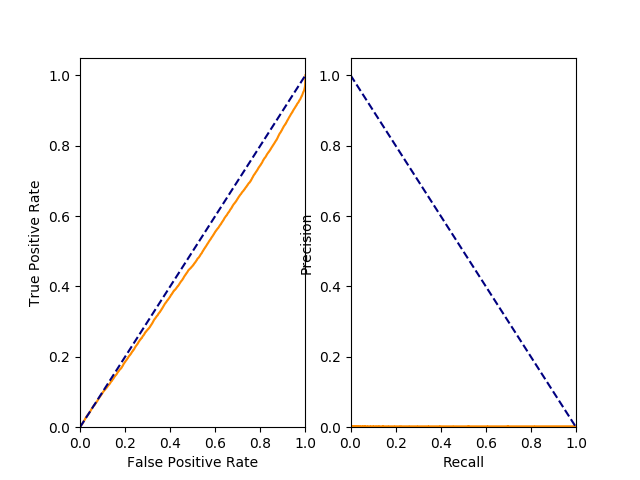
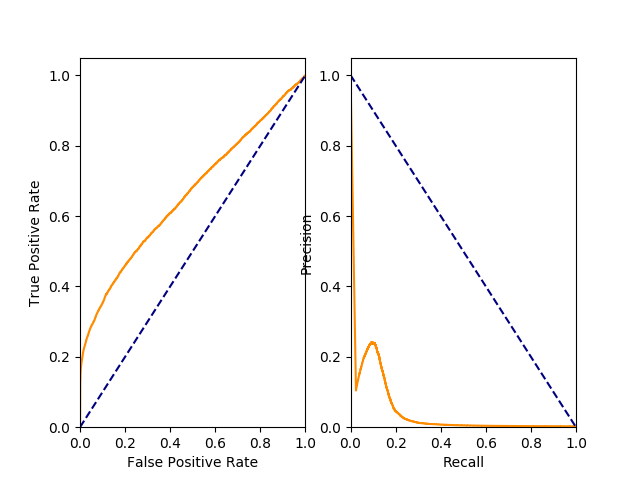
update fastggm auroc/aupr

diff --git a/eval/roc_fastggm.py b/eval/roc_fastggm.py
@@ -1,62 +1,80 @@
-import numpy, pandas, os, errno, matplotlib
+import numpy, pandas, os, errno, matplotlib, argparse
 matplotlib.use('agg')
 import matplotlib.pyplot as plt
 from sklearn.metrics import roc_curve, roc_auc_score, average_precision_score, precision_recall_curve
 
-try:
-    os.mkdir("fastggm")
-except OSError as e:
-    if e.errno == errno.EEXIST:
-        pass
+PRINT_ORDER_SXG =["2000X250", "2000X500", "2000X750", "2000X1000", "2000X1250", "2000X1500", "2000X1750", "2000X2000", "1750X2000", "1500X2000", "1250X2000", "1000X2000", "750X2000", "500X2000", "250X2000"]
 
-true_complete = pandas.read_csv('../data/yeast/gnw2000_truenet', sep=' ', index_col=0)
+def main(input_base_dir = "..", output_base_dir = "."):
+    input_base_dir = input_base_dir + "/"
+    output_base_dir = output_base_dir + "/"
+    try:
+        os.mkdir(output_base_dir + "fastggm")
+    except OSError as e:
+        if e.errno == errno.EEXIST:
+            pass
 
-files = os.listdir('../runs/fastggm/output')
-auroc = []
-average_precision = []
-for _filename in files:
-    filename = '../runs/fastggm/output/' + _filename
-    ngenes = int(_filename.split('.', 1)[0])
-    nsamples = int(_filename.split('.', 1)[1].split('-',1)[0])
-    datafile = '../runs/fastggm/data/format.gnwn' + str(nsamples) + 'X' + str(ngenes)
-    genes = []
-    with open(datafile) as f:
-        line = f.readline().replace('"', '')
-        genes = line.split()
-    
-    pred = pandas.read_csv(filename, sep=' ', index_col=0, usecols=range(2*ngenes, 3*ngenes))
-    true = true_complete.loc[genes, genes]
-    pred = pred.values.flatten()
-    true = true.values.flatten()
-    
-    fpr, tpr, thresholds = roc_curve(true, pred)
-    precision, recall, _ = precision_recall_curve(true, pred)
-    auroc.append(roc_auc_score(true, pred))
-    average_precision.append(average_precision_score(true, pred))
-    
-    fig = plt.figure()
+    true_complete = pandas.read_csv(input_base_dir + 'data/yeast/gnw2000_truenet', sep=' ', index_col=0)
 
-    plt.subplot(1, 2, 1)
-    plt.plot(fpr, tpr, color='darkorange')
-    plt.plot([0,1], [0,1], color='navy', linestyle='--')
-    plt.xlim([0.0, 1.0])
-    plt.ylim([0.0, 1.05])
-    plt.xlabel('False Positive Rate')
-    plt.ylabel('True Positive Rate')
+    files = os.listdir(input_base_dir + 'runs/fastggm/output')
+    auroc = {}
+    average_precision = {}
+    for _filename in files:
+        filename = input_base_dir + 'runs/fastggm/output/' + _filename
+        ngenes = int(_filename.split('.', 1)[0])
+        nsamples = int(_filename.split('.', 1)[1].split('-',1)[0])
+        datafile = input_base_dir + 'runs/fastggm/data/format.gnwn' + str(nsamples) + 'X' + str(ngenes)
+        genes = []
+        with open(datafile) as f:
+            line = f.readline().replace('"', '')
+            genes = line.split()
 
-    plt.subplot(1, 2, 2)
-    plt.plot(recall, precision, color='darkorange')
-    plt.plot([0, 1], [1, 0], color='navy', linestyle='--')
-    plt.xlim([0.0, 1.0])
-    plt.ylim([0.0, 1.05])
-    plt.xlabel('Recall')
-    plt.ylabel('Precision')
+        pred = pandas.read_csv(filename, sep=' ', index_col=0, usecols=range(2*ngenes + 1, 3*ngenes + 1))
+        true = true_complete.loc[genes, genes]
+        pred = pred.values.flatten()
+        true = true.values.flatten()
+        print(max(pred), min(pred))
+        sxgn = str(nsamples) + "X" + str(ngenes)
+        pred = 1 - pred
 
-    fig.savefig('fastggm/'+_filename.split('-')[0]+'_roc.png')
+        fpr, tpr, thresholds = roc_curve(true, pred)
+        precision, recall, _ = precision_recall_curve(true, pred)
+        auroc[sxgn] = roc_auc_score(true, pred)
+        average_precision[sxgn] = average_precision_score(true, pred)
 
-print("AUROC")
-for i in range(len(auroc)):
-    print(files[i] + " : " + str(auroc[i]))
-print("Average_precision")
-for i in range(len(average_precision)):
-    print(files[i] + " : " + str(average_precision[i]))
+        fig = plt.figure()
+
+        plt.subplot(1, 2, 1)
+        plt.plot(fpr, tpr, color='darkorange')
+        plt.plot([0,1], [0,1], color='navy', linestyle='--')
+        plt.xlim([0.0, 1.0])
+        plt.ylim([0.0, 1.05])
+        plt.xlabel('False Positive Rate')
+        plt.ylabel('True Positive Rate')
+
+        plt.subplot(1, 2, 2)
+        plt.plot(recall, precision, color='darkorange')
+        plt.plot([0, 1], [1, 0], color='navy', linestyle='--')
+        plt.xlim([0.0, 1.0])
+        plt.ylim([0.0, 1.05])
+        plt.xlabel('Recall')
+        plt.ylabel('Precision')
+
+        fig.savefig(output_base_dir + 'fastggm/'+_filename.split('-')[0]+'_roc.png')
+
+    print("\t".join(["SXG"] + [x for x in PRINT_ORDER_SXG]))
+    print("\t".join(["AUROC"] + [str(auroc[x]) if x in auroc else "NA" for x in PRINT_ORDER_SXG]))
+    print("\t".join(["AUPR"] + [str(average_precision[x]) if x in average_precision else "NA" for x in PRINT_ORDER_SXG]))
+
+if __name__ == "__main__":
+    PROG_DESC = """
+    Computes the ROC for fastggm networks.
+    """
+    PARSER = argparse.ArgumentParser(description=PROG_DESC)
+    PARSER.add_argument("-i", "--input_base_dir", type=str, default="..",
+                        help="""Base dir of fastggm runs dir""")
+    PARSER.add_argument("-o", "--output_base_dir", type=str, default=".",
+                        help="""Base dir of output dir""")
+
+    ARGS = PARSER.parse_args()
+    main(ARGS.input_base_dir, ARGS.output_base_dir)
